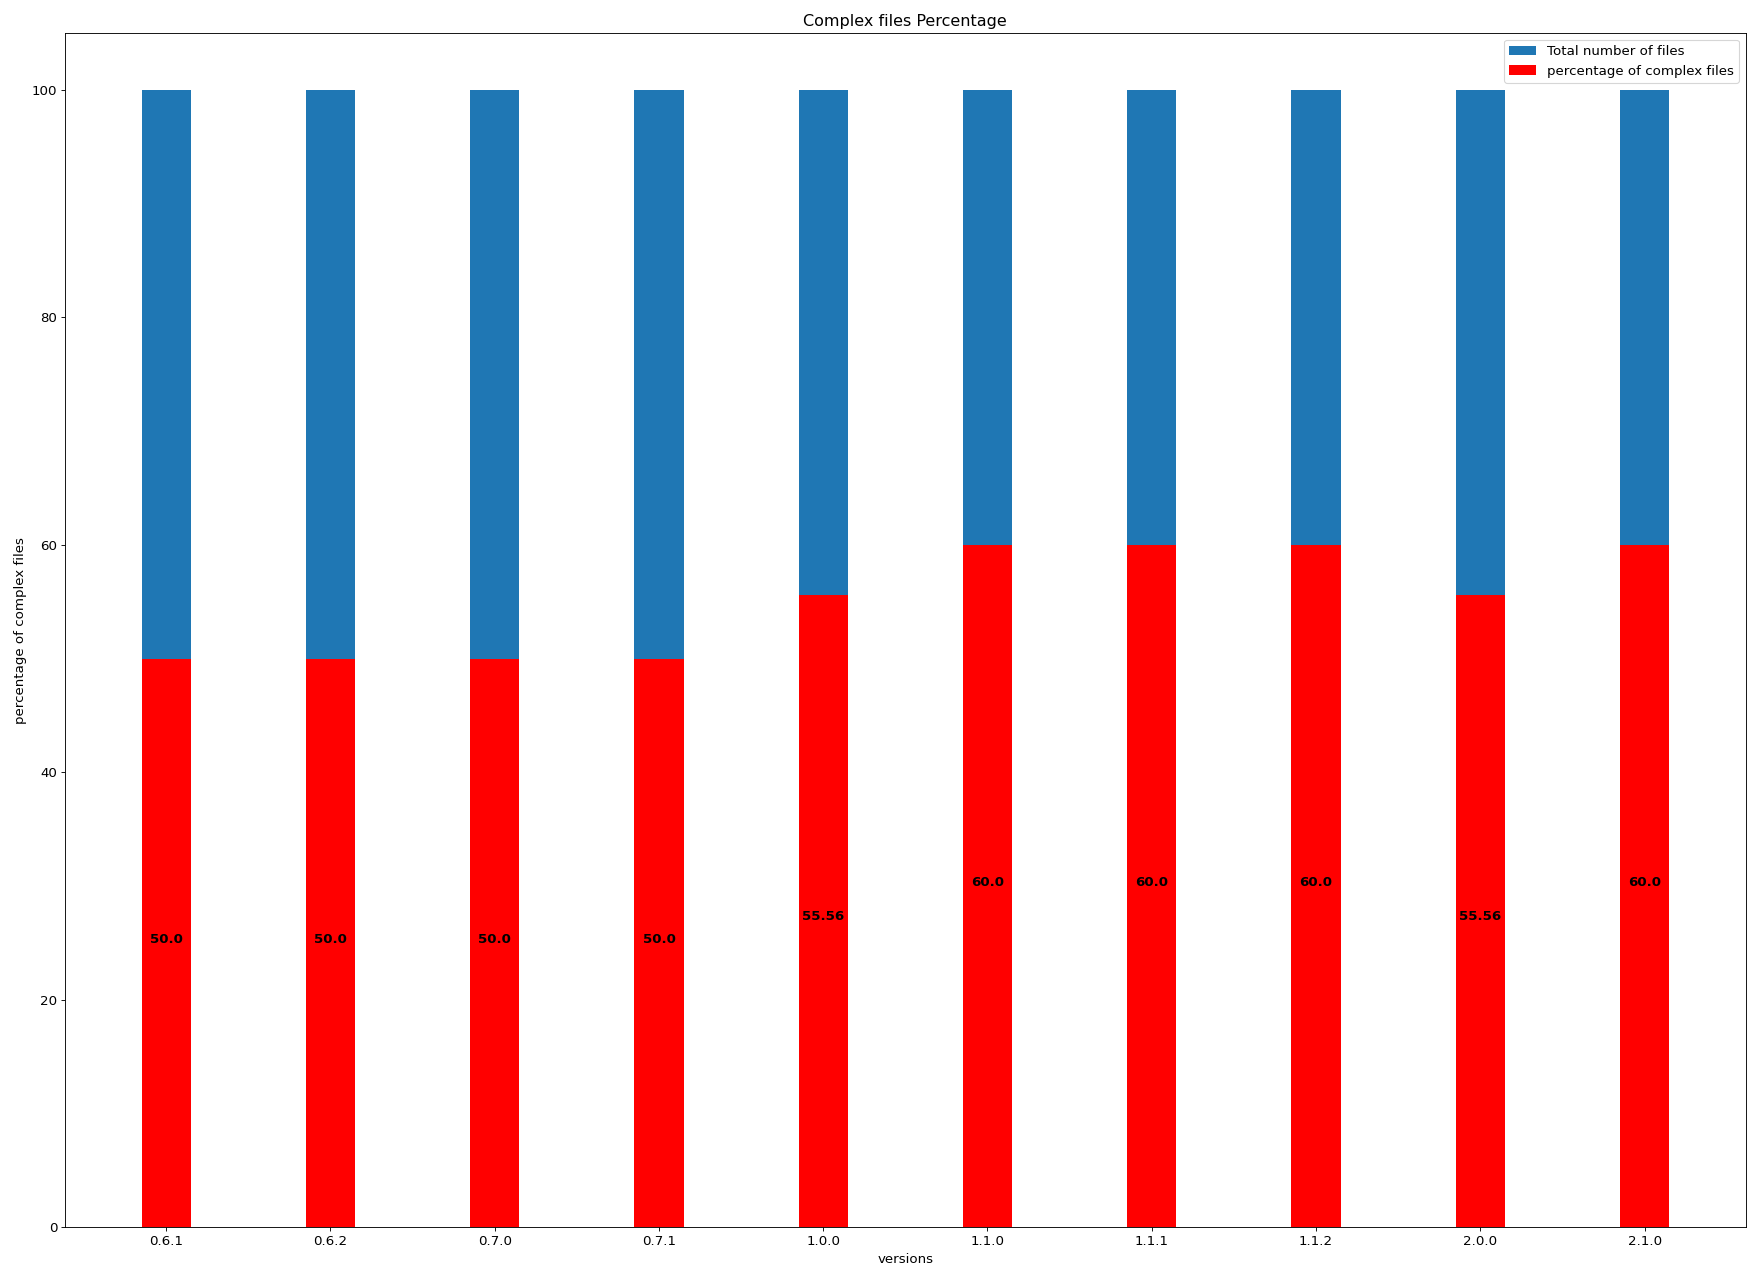
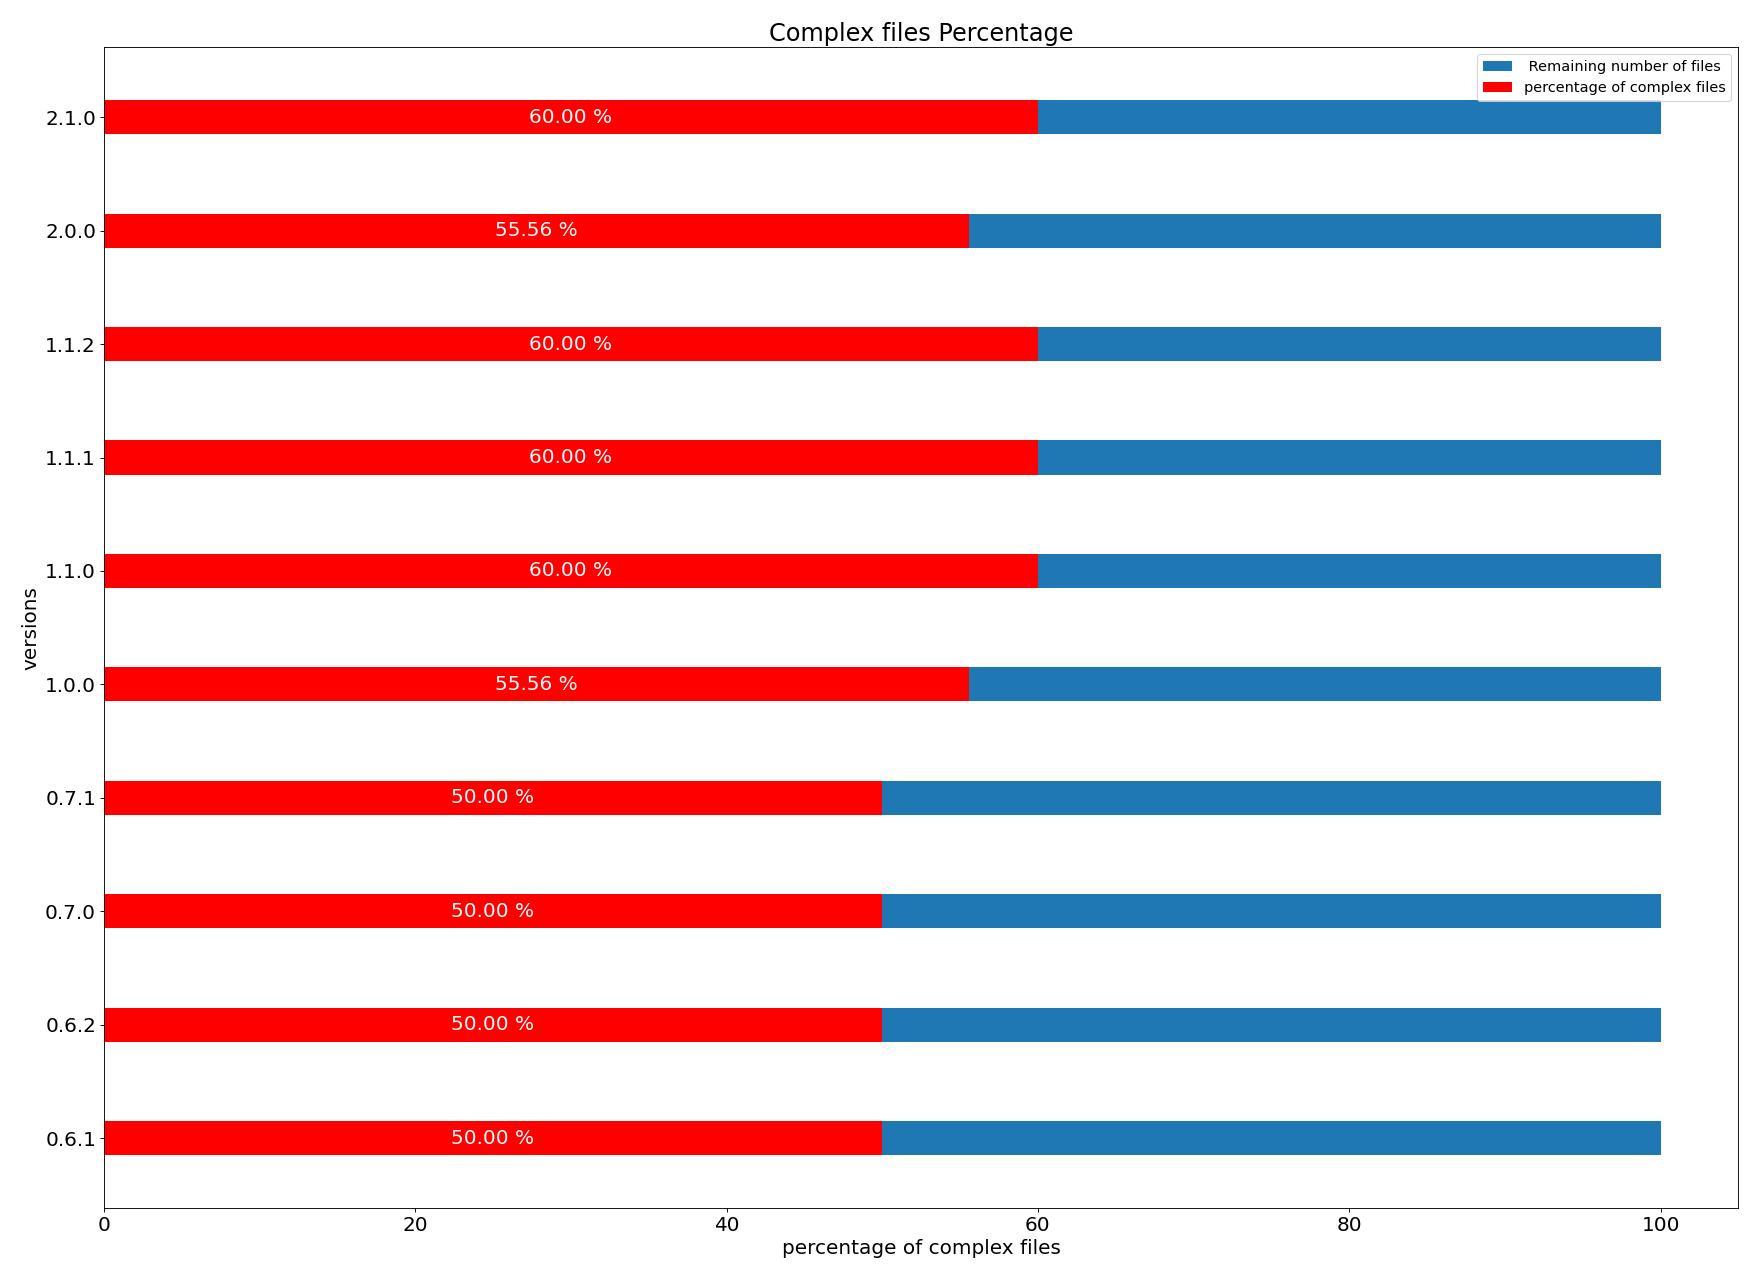
Modified some graphs

diff --git a/time-analysis.py b/time-analysis.py
@@ -38,36 +38,41 @@ def print_plot(versions,vec,img_path):
     return
 
 def plot_complex(versions,complex,total,img_path):
-    plt.rcParams.update({'font.size': 12})
+    plt.rcParams.update({'font.size': 18})
     plt.rcParams["figure.autolayout"] = True
     figure(figsize=(22,16), dpi=80)
-    plt.bar(versions, total, 0.3, label="Total number of files")
-    plt.bar(versions, complex, 0.3,color="r", label="number of complex files")
-    for i in range(0,len(versions)):
-        plt.text(i, complex[i]//2,str(complex[i]), color='black', ha='center', fontweight='bold')
-        plt.text(i, (total[i]-complex[i])//2 +complex[i],str(total[i]), color='black', ha='center', fontweight='bold')
-    plt.xlabel("versions")
-    plt.ylabel("number of complex files")
+    #bar1=plt.bar(versions, total, 0.4, label="Remaining number of files")
+    #bar2=plt.bar(versions, complex, 0.4,color="r", label="number of complex files")
+    #for i in range(0,len(versions)):
+        #plt.text(i, complex[i]//2,str(complex[i]), color='black', ha='center', fontweight='bold')
+        #plt.text(i, (total[i]-complex[i])//2 +complex[i],str(total[i]), color='black', ha='center', fontweight='bold')
+    bar1=plt.barh(versions, total, 0.4, label="Remaining number of files")
+    bar2=plt.barh(versions, complex, 0.4,color="r", label="number of complex files")
+    plt.bar_label(bar1,label_type='center',padding=500,color="snow")
+    plt.bar_label(bar2,label_type='center',color="snow")
+    plt.ylabel("versions")
+    plt.xlabel("number of complex files")
     plt.title("Complex files")
-    plt.legend()
+    plt.legend(loc='upper right',prop={'size': 13})
     plt.savefig(img_path)
     plt.cla()
     return
 
 def plot_complex_percentage(versions,complex,total,img_path):
-    plt.rcParams.update({'font.size': 12})
+    plt.rcParams.update({'font.size': 18})
     plt.rcParams["figure.autolayout"] = True
     figure(figsize=(22,16), dpi=80)
     ratios = np.divide(complex,total)
     ratios= np.multiply(ratios,100.0)
-    plt.bar(versions, np.full(len(versions),100), 0.3, label="Total number of files")
-    plt.bar(versions, ratios, 0.3,color="r", label="percentage of complex files")
-    for i in range(0,len(versions)):
-        plt.text(i, ratios[i]//2,str(round(ratios[i],2)), color='black', ha='center', fontweight='bold')
-    plt.xlabel("versions")
-    plt.ylabel("percentage of complex files")
+    plt.barh(versions, np.full(len(versions),100), 0.3, label=" Remaining number of files")
+    bar=plt.barh(versions, ratios, 0.3,color="r", label="percentage of complex files")
+    #for i in range(0,len(versions)):
+        #plt.text(i, ratios[i]//2,str(round(ratios[i],2)), color='black', ha='center', fontweight='bold')
+    plt.bar_label(bar,label_type='center',color="snow",fmt="%.2f %%")
+    plt.ylabel("versions")
+    plt.xlabel("percentage of complex files")
     plt.title("Complex files Percentage")
-    plt.legend()
+    plt.legend(loc='upper right',prop={'size': 13})
     plt.savefig(img_path)
     plt.cla()
     return

diff --git a/static-analysis.py b/static-analysis.py
@@ -9,10 +9,18 @@ def get_ticks(Y_axis):
     vec=[y for ys in Y_axis for y in ys]
     ymin= min(vec)
     ymax= max(vec)
-    step = round((ymax-ymin)/20.0,2)
-    ticks=np.arange(ymin,ymax,step=step)
-    
-    return np.append(ticks,ticks[len(ticks)-1]+step)
+    #delta = (ymax-ymin)/200
+    #res=[]
+    #vec.sort()
+    #for i in range(1,len(vec)):
+        #if(vec[i]-vec[i-1]>delta) :
+            #res.append(vec[i-1])
+   #res.append(vec[len(vec)-1])
+    npv=np.linspace(ymin,ymax,100)
+    res = npv[0::2]
+    #for x in npv:
+        #res.append(x)
+    return res
 
 #avg_cyc[, avg_cogn, max_cyc, max_cogn,min_cyc, min_cogn
 def print_bar_plot(x,vec,img_path,title): 
@@ -30,15 +38,16 @@ def print_bar_plot(x,vec,img_path,title):
         for value in y:
             min_y=min(min_y,value)
             max_y=max(max_y,value)
-    plt.rcParams.update({'font.size': 12})
-    figure(figsize=(25,20), dpi=80)
+    plt.rcParams.update({'font.size': 18})
+    figure(figsize=(36,30), dpi=80)
     for i in range(0,len(x)):
-        plt.bar(V_axis[i], Y_axis[i], 0.2, label = x[i])
-        for j in range(0,len(Y_axis[i])):
-            plt.text(V_axis[i][j], Y_axis[i][j]//2,str(round(Y_axis[i][j],2)), color='black', ha='center', fontweight='bold')
-    plt.xticks(rotation='vertical')
-    plt.yticks(get_ticks(Y_axis))
-    plt.ylim(min_y)
+        bar=plt.barh(V_axis[i], Y_axis[i], 0.6, label = x[i])
+        plt.bar_label(bar,padding=5)
+    #    for j in range(0,len(Y_axis[i])):
+    #        plt.text(V_axis[i][j], Y_axis[i][j]//2,str(round(Y_axis[i][j],2)), color='black', ha='center', fontweight='bold')
+    #plt.yticks(rotation='vertical')
+    plt.xticks(get_ticks(Y_axis),rotation="vertical")
+    plt.xlim(min_y)
     plt.xlabel("projects")
     plt.ylabel("Complexity")
     plt.title(title)
